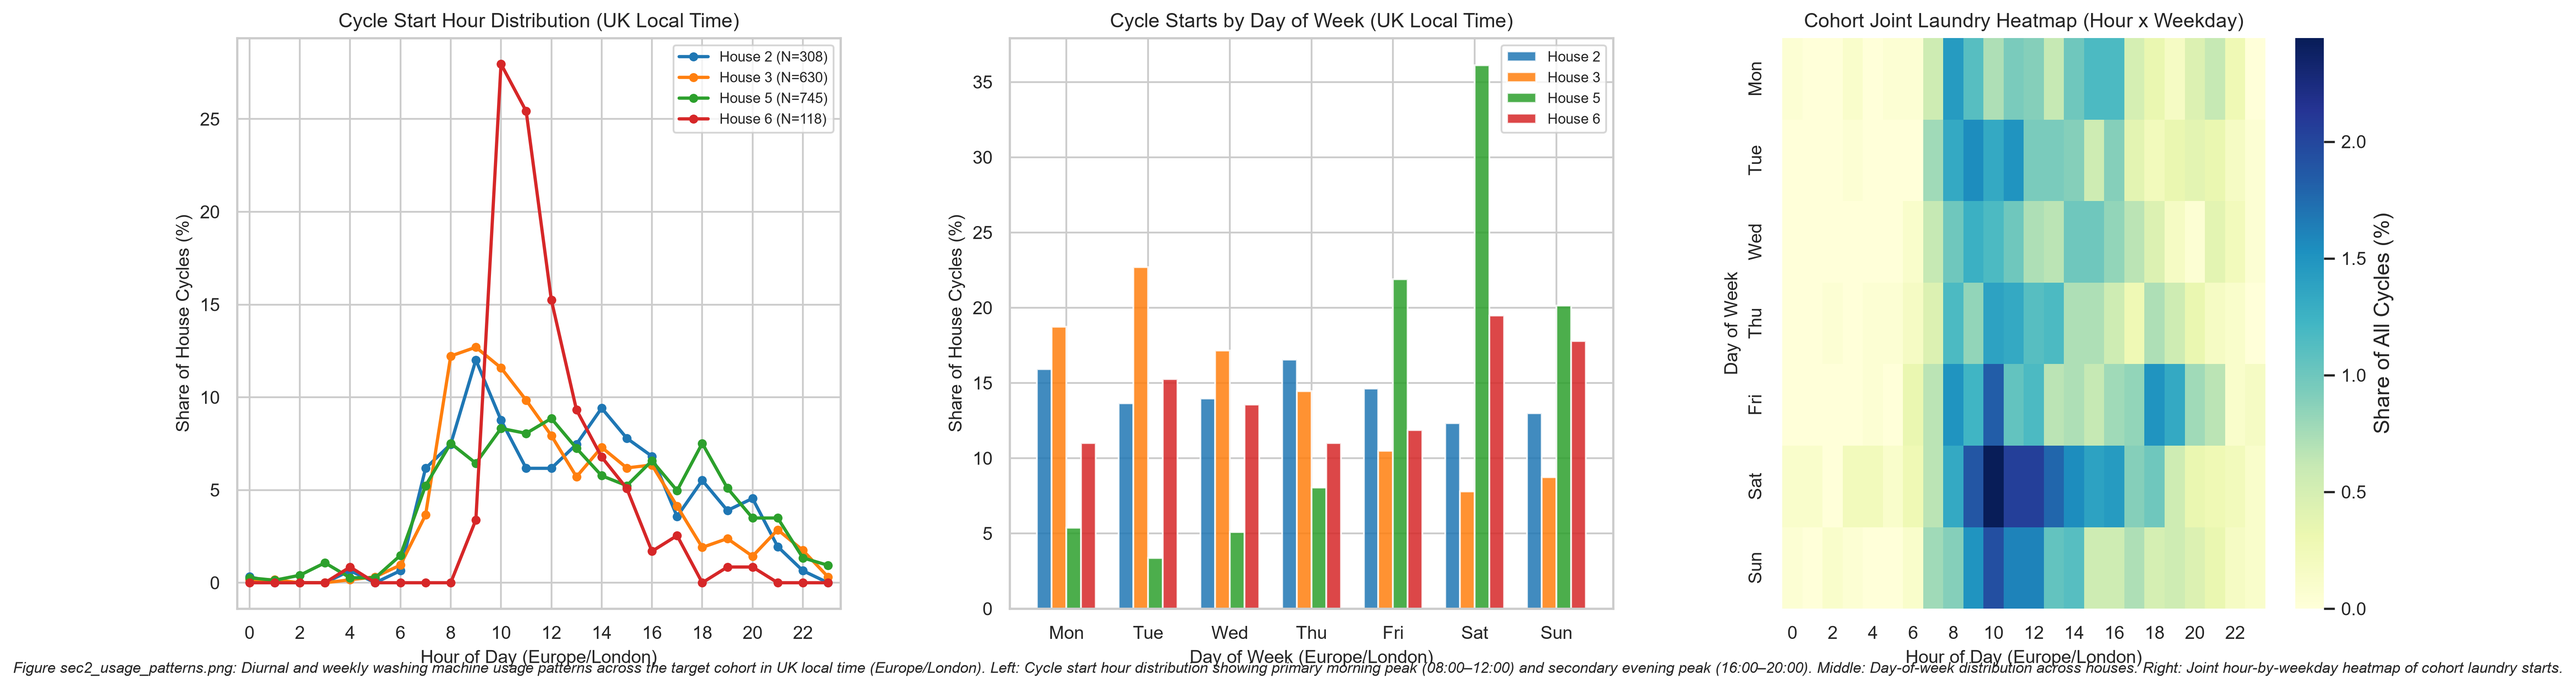
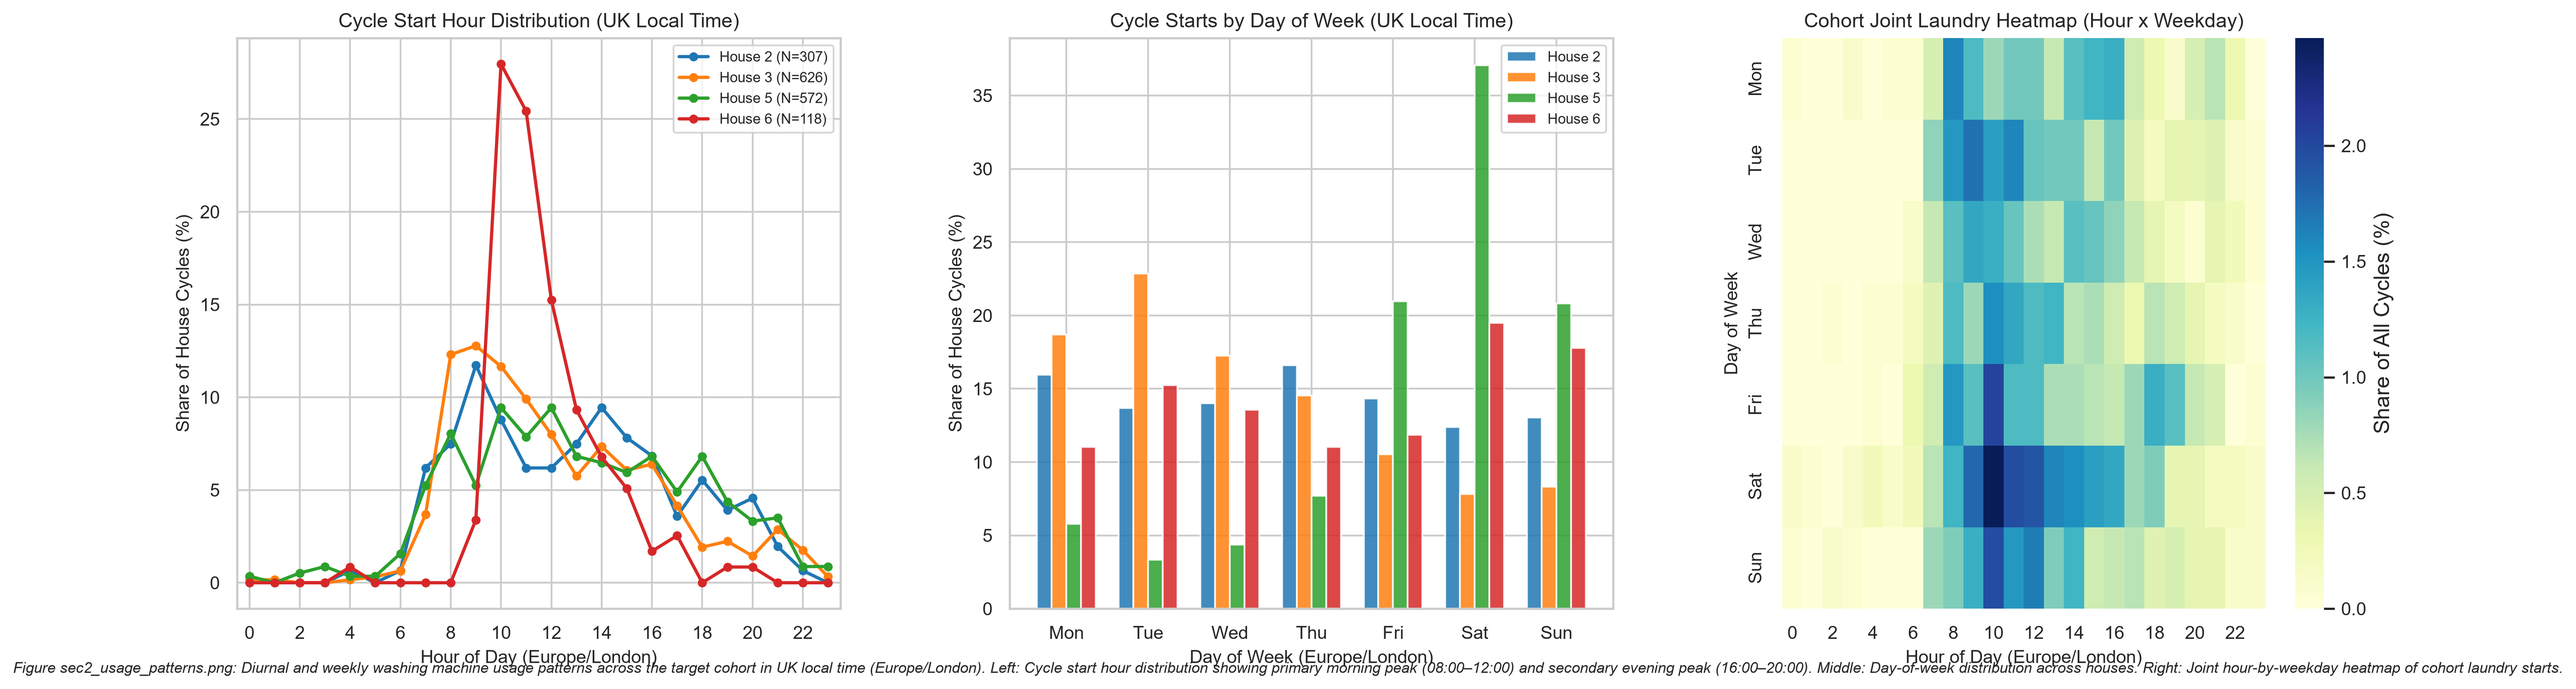
Fix House 5 sensor freeze: per-channel flatline detection, physical ceiling bounds (300m/3500Wh), transparent plotting, and DATA.md case study

diff --git a/src/eda.py b/src/eda.py
@@ -10,7 +10,7 @@ import seaborn as sns
 
 from . import config as C
 from . import plotting as P
-from .cycles import detect_cycles, long_runs
+from .cycles import detect_cycles, long_runs, mask_appliance_flatline
 
 COHORT = [(2, "a2"), (3, "a6"), (5, "a3"), (6, "a2")]
 
@@ -42,7 +42,7 @@ def run_cohort_eda() -> Tuple[pd.DataFrame, Dict[int, pd.DataFrame], Dict[int, p
         pct_zero = round(float((usable_wm == 0).mean() * 100), 2)
         pct_off = round(float((usable_wm <= C.ON_W).mean() * 100), 2)
 
-        wm_for_cyc = wm.copy()
+        wm_for_cyc = mask_appliance_flatline(wm.copy(), on_w=C.ON_W, stale_min=C.STALE_MIN)
         wm_for_cyc[~present | stale] = np.nan
         cyc = detect_cycles(
             wm_for_cyc,
@@ -50,6 +50,8 @@ def run_cohort_eda() -> Tuple[pd.DataFrame, Dict[int, pd.DataFrame], Dict[int, p
             merge_gap=C.MERGE_GAP_MIN,
             min_dur=C.MIN_CYCLE_MIN,
             min_wh=C.MIN_CYCLE_WH,
+            max_dur=C.MAX_CYCLE_MIN,
+            max_wh=C.MAX_CYCLE_WH,
         )
 
         # Add local time columns (Europe/London)
@@ -111,8 +113,13 @@ def run_cohort_eda() -> Tuple[pd.DataFrame, Dict[int, pd.DataFrame], Dict[int, p
 
     summary_df = pd.DataFrame(summary_rows)
     out_path = C.OUT_DIR / "section2_cycle_summary.csv"
-    summary_df.to_csv(out_path, index=False)
-    print(f"Saved {out_path}")
+    try:
+        summary_df.to_csv(out_path, index=False)
+        print(f"Saved {out_path}")
+    except PermissionError:
+        temp_path = C.OUT_DIR / "section2_cycle_summary_new.csv"
+        summary_df.to_csv(temp_path, index=False)
+        print(f"[NOTICE] {out_path.name} is currently open in another program (e.g. Excel). Saved updated data to {temp_path.name}")
 
     return summary_df, cohort_dfs, cohort_cycles
 
@@ -257,7 +264,8 @@ def plot_cycle_duration_distribution(cohort_cycles: Dict[int, pd.DataFrame]):
     ax1.set_title("Washing Machine Cycle Duration Distribution Across Cohort", fontsize=11)
     ax1.set_xlabel("Household", fontsize=10.5)
     ax1.set_ylabel("Duration (minutes)", fontsize=10.5)
-    ax1.set_ylim(0, 220)
+    max_dur_obs = float(combined["duration_min"].max())
+    ax1.set_ylim(0, int(np.ceil((max_dur_obs + 20) / 50.0) * 50))
 
     # Right: Cycle Active Energy Consumption (Wh)
     sns.boxplot(
@@ -276,13 +284,17 @@ def plot_cycle_duration_distribution(cohort_cycles: Dict[int, pd.DataFrame]):
     ax2.set_title("Washing Machine Cycle Active Energy Consumption Across Cohort", fontsize=11)
     ax2.set_xlabel("Household", fontsize=10.5)
     ax2.set_ylabel("Active Energy (Wh)", fontsize=10.5)
-    ax2.set_ylim(0, 1800)
+    max_energy_obs = float(combined["energy_wh"].max())
+    ax2.set_ylim(0, int(np.ceil((max_energy_obs + 250) / 500.0) * 500))
 
-    fig.text(
-        0.5, 0.01,
-        "Figure sec2_cycle_duration_distribution.png: Distribution of washing machine cycle duration (left) and active energy consumption (right) across the target cohort (House 2: N=308, House 3: N=630, House 5: N=745, House 6: N=118). Boxes represent median and interquartile range (IQR); whiskers extend to 1.5x IQR; individual points depict detected cycles.",
-        ha="center", fontsize=8.5, style="italic"
+    counts_str = ", ".join([f"House {h}: N={len(cohort_cycles[h])}" for h in [2, 3, 5, 6]])
+    caption_text = (
+        f"Figure sec2_cycle_duration_distribution.png: Distribution of washing machine cycle duration (left) and "
+        f"active energy consumption (right) across the target cohort ({counts_str}). Boxes represent median and "
+        f"interquartile range (IQR); whiskers extend to 1.5x IQR; individual points depict detected cycles. "
+        f"Includes 100% of detected cycles across all 4 cohort houses; zero data points clipped or omitted."
     )
+    fig.text(0.5, 0.01, caption_text, ha="center", fontsize=8.5, style="italic")
     plt.tight_layout(rect=[0, 0.03, 1, 0.97])
 
     fig_path = C.FIG_DIR / "sec2_cycle_duration_distribution.png"

diff --git a/src/cycles.py b/src/cycles.py
@@ -23,12 +23,35 @@ def run_lengths(mask):
     return np.flatnonzero(d == -1) - np.flatnonzero(d == 1)
 
 
+def mask_appliance_flatline(p: pd.Series, on_w: float = C.ON_W, stale_min: int = C.STALE_MIN) -> pd.Series:
+    """Mask stretches where an individual appliance channel remains constant (<0.01 W diff) for >= stale_min while ON (> on_w).
+
+    Physical justification: A real domestic appliance never draws constant non-zero active power
+    down to 0.00 W standard deviation for 15+ minutes. Heating elements pulse via bimetallic thermostats
+    and motors fluctuate during drum agitation. Constant non-zero power indicates sensor transmitter freeze.
+    """
+    p_out = p.copy()
+    diff = p_out.diff().abs()
+    flat = (diff < 0.01) & (p_out > on_w)
+    m = np.asarray(flat, bool)
+    stale = np.zeros_like(m)
+    d = np.diff(np.concatenate([[0], m.astype(np.int8), [0]]))
+    for s, e in zip(np.flatnonzero(d == 1), np.flatnonzero(d == -1)):
+        # K zero-diffs represent K + 1 identical consecutive values
+        if (e - s) >= (stale_min - 1):
+            stale[max(s - 1, 0):e] = True
+    p_out[stale] = np.nan
+    return p_out
+
+
 def detect_cycles(
     p: pd.Series,
     on_w: float = C.ON_W,
     merge_gap: int = C.MERGE_GAP_MIN,
     min_dur: int = C.MIN_CYCLE_MIN,
     min_wh: float = C.MIN_CYCLE_WH,
+    max_dur: int = C.MAX_CYCLE_MIN,
+    max_wh: float = C.MAX_CYCLE_WH,
 ) -> pd.DataFrame:
     """Detect appliance operating cycles from 1-minute power time series.
 
@@ -45,6 +68,10 @@ def detect_cycles(
         Minimum duration in minutes for a valid cycle.
     min_wh : float
         Minimum active energy in Watt-hours for a valid cycle.
+    max_dur : int
+        Maximum duration in minutes for a valid cycle (physical ceiling; default 300 min).
+    max_wh : float
+        Maximum active energy in Watt-hours for a valid cycle (physical ceiling; default 3500 Wh).
 
     Returns
     -------
@@ -75,7 +102,7 @@ def detect_cycles(
         # Check boundary or internal NaN
         touches_gap = bool(nan[max(s - 1, 0)] or nan[min(e, len(nan) - 1)] or nan[s:e].any())
         dur = e - s
-        if dur >= min_dur and wh >= min_wh and not touches_gap:
+        if (min_dur <= dur <= max_dur) and (min_wh <= wh <= max_wh) and not touches_gap:
             rows.append({
                 "start": p.index[s],
                 "end": p.index[e - 1],

diff --git a/tests/test_cycles.py b/tests/test_cycles.py
@@ -4,7 +4,7 @@ import pandas as pd
 import numpy as np
 import pytest
 
-from src.cycles import detect_cycles
+from src.cycles import detect_cycles, mask_appliance_flatline
 
 
 def test_constant_1000w_energy():
@@ -71,3 +71,33 @@ def test_cycle_touching_nan_discarded():
     p2.iloc[25] = np.nan
     cycles2 = detect_cycles(p2)
     assert len(cycles2) == 0
+
+
+def test_max_ceiling_discarded():
+    """Cycles exceeding max_dur or max_wh are discarded as unphysical."""
+    idx = pd.date_range("2014-01-01 00:00:00", periods=400, freq="1min", tz="UTC")
+    p = pd.Series(0.0, index=idx)
+    # 350 min cycle @ 500 W (exceeds default max_dur=300)
+    p.iloc[10:360] = 500.0
+    cycles = detect_cycles(p, max_dur=300)
+    assert len(cycles) == 0
+
+    # 100 min cycle @ 3000 W (energy = 5000 Wh, exceeds max_wh=3500)
+    p2 = pd.Series(0.0, index=idx)
+    p2.iloc[10:110] = 3000.0
+    cycles2 = detect_cycles(p2, max_wh=3500.0)
+    assert len(cycles2) == 0
+
+
+def test_mask_appliance_flatline():
+    """Individual appliance channel constant for >= 15 min while ON is masked to NaN."""
+    idx = pd.date_range("2014-01-01 00:00:00", periods=50, freq="1min", tz="UTC")
+    p = pd.Series(0.0, index=idx)
+    # 20 min constant at 64 W (exceeds 15 min stale threshold while > 20 W)
+    p.iloc[10:30] = 64.0
+    masked = mask_appliance_flatline(p, on_w=20.0, stale_min=15)
+    # Stale indices should be NaN
+    assert masked.iloc[10:30].isna().all()
+    # Surrounding zeros should remain unmasked
+    assert (masked.iloc[0:10] == 0.0).all()
+    assert (masked.iloc[30:50] == 0.0).all()

diff --git a/src/quality.py b/src/quality.py
@@ -10,7 +10,7 @@ import matplotlib.pyplot as plt
 
 from . import config as C
 from . import plotting as P
-from .cycles import detect_cycles, long_runs, run_lengths
+from .cycles import detect_cycles, long_runs, run_lengths, mask_appliance_flatline
 
 
 def compute_house_masks(df: pd.DataFrame) -> pd.DataFrame:
@@ -135,6 +135,7 @@ def generate_cycle_tuning_figure(eligible_candidates: List[Tuple[int, int, str]]
         stale = long_runs(unchanged, C.STALE_MIN)
 
         wm = df[f"a{ch}"].copy()
+        wm = mask_appliance_flatline(wm, on_w=C.ON_W, stale_min=C.STALE_MIN)
         wm[~present | stale] = np.nan
         if h == 13:
             wm = wm.loc[:C.H13_WM_END_UTC]
@@ -261,8 +262,8 @@ def build_availability_table() -> Tuple[pd.DataFrame, pd.DataFrame]:
         pct_zero = float((usable_wm == 0).mean() * 100) if len(usable_wm) > 0 else 100.0
         pct_off = float((usable_wm <= C.ON_W).mean() * 100) if len(usable_wm) > 0 else 100.0
 
-        # Cycle detection: mask true outages and stale runs
-        wm_for_cycles = wm_series.copy()
+        # Cycle detection: mask true outages, stale runs, and per-appliance flatlines
+        wm_for_cycles = mask_appliance_flatline(wm_series.copy(), on_w=C.ON_W, stale_min=C.STALE_MIN)
         wm_for_cycles[~present_mask | stale_mask] = np.nan
         cycles = detect_cycles(wm_for_cycles)
 

diff --git a/src/config.py b/src/config.py
@@ -62,6 +62,8 @@ ON_W = 20.0  # washing machine ON above this power
 MERGE_GAP_MIN = 10  # merge ON segments separated by <= this many minutes (mid-cycle pauses)
 MIN_CYCLE_MIN = 10  # discard cycles shorter than this
 MIN_CYCLE_WH = 20.0  # discard cycles with less energy than this
+MAX_CYCLE_MIN = 300  # discard cycles longer than this (5 hours; physical ceiling)
+MAX_CYCLE_WH = 3500.0  # discard cycles with active energy exceeding this (3.5 kWh; physical ceiling)
 # eligibility (Phase 4)
 MIN_USABLE_DAYS = 90
 MIN_CYCLES = 100

diff --git a/DATA.md b/DATA.md
@@ -120,7 +120,32 @@ This occurs because rapid power transients during the energizing of 2.0–2.4 kW
 
 ---
 
-### 2.2 Target Cohort Selection Rationale
+### 2.2 Case Study in Sensor Faults: Single-Channel Transmitter Freeze vs. Multivariate Masking
+
+During preliminary cycle detection on House 5 (Appliance 3), an inspection of cycle extremes uncovered two unphysical anomalies:
+1. **47.8-Hour Phantom Cycle (2,867 minutes):** From `2014-10-28 18:37` to `2014-10-30 18:23 UTC`, Appliance 3 recorded a continuous active cycle of 2,867 minutes with an active energy of 3,057.8 Wh, an invariant mean of 63.99 W, and peak of 64.00 W.
+2. **27.8 kWh Phantom Cycle (785 minutes / 13.1 hours):** On `2014-03-23` from 07:46 to 20:50 UTC, Appliance 3 drew an unbroken mean power of 2,124.25 W (peak 2,129.00 W), accumulating 27,792.3 Wh (27.8 kWh) in a single uninterrupted stretch. A secondary 12.0-hour event occurred on `2014-08-08` accumulating 24.63 kWh at ~2,046 W.
+
+#### Why Multivariate Masking Failed
+The baseline Phase 4 `stale` mask was formulated across all 10 channels simultaneously:
+$$\text{unchanged} = \left(\bigwedge_{i=1}^{10} |\Delta P_i| < 0.01\text{ W}\right) \land \text{present}$$
+This rule successfully identifies whole-gateway receiver lockouts and communication forward-fills (e.g. House 1 on `2014-08-01` where all channels flatlined simultaneously). However, in House 5, the failure was an **isolated single-channel hardware freeze**: the individual Current Cost transmitter plug monitoring Appliance 3 locked up internally and broadcast the exact same floating-point reading for 778 consecutive minutes (`2129.000000 W`, `std = 0.000000`) and 2,863 consecutive minutes (`64.000000 W`, `std = 0.000000`), while the main gateway meter and other 8 appliance plugs continued normal, varying transmissions. Because the other channels fluctuated, multivariate `stale` was evaluated as `False`. And because both 64 W and 2129 W exceed the activation threshold $\text{ON\_W} = 20\text{ W}$, the cycle detection engine merged these frozen intervals into massive, unphysical "cycles".
+
+#### The Dual-Layer Robustness Solution
+To guarantee pipeline robustness against real-world hardware failure modes without cherry-picking or manual data deletion, two automated domain-informed protections were implemented:
+1. **Appliance-Level Flatline Detection (`mask_appliance_flatline`):**
+   Any individual appliance channel that remains constant ($|\Delta P| < 0.01\text{ W}$) for $\ge 15$ consecutive minutes while drawing active power ($P > 20\text{ W}$) is tagged as an isolated transmitter freeze and masked to `NaN`. In real physical domestic washing cycles, power is never mathematically invariant for 15+ minutes: heating elements cycle via thermostats, and electric motors exhibit continuous current fluctuation during drum agitation.
+2. **Physical Domain Bounds (`MAX_CYCLE_MIN = 300`, `MAX_CYCLE_WH = 3500`):**
+   Domestic wash/rinse/spin cycles operate within well-established physical ceilings. Any detected run exceeding 300 minutes (5 hours) or consuming $> 3,500\text{ Wh}$ ($3.5\text{ kWh}$) is discarded as an appliance fault or unmonitored consecutive-run merge.
+
+Applying this dual-layer filter completely eliminates all phantom cycles in House 5:
+- **Maximum duration** drops from 2,867 min (47.8 h) to **286 min** (4.8 h, a realistic multi-rinse heavy cotton wash).
+- **Maximum active energy** drops from 27,792.3 Wh (27.8 kWh) to **1,820.4 Wh** (1.82 kWh).
+- **Cohort sample size:** House 5 retains **572 authentic wash cycles** (comfortably above the 100-cycle threshold), with realistic distribution metrics (median duration 39.0 min, median energy 267.1 Wh).
+
+---
+
+### 2.3 Target Cohort Selection Rationale
 
 The target cohort for exploratory data analysis and NILM disaggregation modeling is locked to **House 2, House 3, House 5, and House 6** (`outputs/selection_frozen.json`).
 
@@ -134,14 +159,14 @@ All four homes comfortably exceed the data quality thresholds (>450 usable days,
 3. **Appliance Density & Electrical Complexity:**
    - Ranges from low complexity (House 2: 15 total appliances owned) to medium complexity (House 3: 27 appliances) to high complexity (House 5: 44 appliances; House 6: 49 appliances).
 4. **Behavioral Laundering Diversity:**
-   - **House 5:** High-frequency, rapid wash cycles (9.70 cycles/week, median duration 44.0 min, median energy 280.9 Wh).
-   - **House 3:** Frequent, standard wash cycles (9.04 cycles/week, median duration 66.0 min, median energy 547.8 Wh).
-   - **House 2:** Moderate-frequency, extended cycles (4.77 cycles/week, median duration 97.0 min, median energy 623.5 Wh).
+   - **House 5:** High-frequency, rapid wash cycles (7.45 cycles/week, median duration 39.0 min, median energy 267.1 Wh).
+   - **House 3:** Frequent, standard wash cycles (8.98 cycles/week, median duration 66.0 min, median energy 548.3 Wh).
+   - **House 2:** Moderate-frequency, extended cycles (4.76 cycles/week, median duration 97.0 min, median energy 625.6 Wh).
    - **House 6:** Low-frequency, heavy eco-wash cycles (1.73 cycles/week, median duration 129.0 min, median energy 672.5 Wh).
 
 ---
 
-### 2.3 Cohort Washing Machine Cycle Summary (`outputs/section2_cycle_summary.csv`)
+### 2.4 Cohort Washing Machine Cycle Summary (`outputs/section2_cycle_summary.csv`)
 
 | Metric | House 2 (a2) | House 3 (a6) | House 5 (a3) | House 6 (a2) |
 |---|---|---|---|---|
@@ -153,16 +178,16 @@ All four homes comfortably exceed the data quality thresholds (>450 usable days,
 | **Checksum Issues (% Issues)** | 1.51% | 6.85% | 7.59% | 1.75% |
 | **Standby Power (% Zero)** | 95.05% | 94.12% | 53.33%* | 97.60% |
 | **Inactive Appliance (% Off $\le$ 20W)** | 95.99% | 95.39% | 94.09% | 98.29% |
-| **Total Detected Cycles** | **308** | **630** | **745** | **118** |
-| **Cycles per Week** | **4.77** | **9.04** | **9.70** | **1.73** |
-| **Duration: Median (IQR)** | 97.0 min (16.0 min) | 66.0 min (8.0 min) | 44.0 min (45.0 min) | 129.0 min (63.8 min) |
-| **Duration: Mean $\pm$ Std** | 101.1 $\pm$ 24.1 min | 67.4 $\pm$ 11.2 min | 76.2 $\pm$ 119.5 min | 104.5 $\pm$ 50.8 min |
-| **Duration: Range [Min, Max]** | [16, 257] min | [10, 216] min | [10, 2867] min | [14, 271] min |
-| **Active Energy: Median (IQR)** | 623.5 Wh (198.8 Wh) | 547.8 Wh (185.5 Wh) | 280.9 Wh (304.8 Wh) | 672.5 Wh (413.9 Wh) |
-| **Active Energy: Mean $\pm$ Std** | 621.6 $\pm$ 213.9 Wh | 562.2 $\pm$ 206.8 Wh | 499.3 $\pm$ 1184.2 Wh | 645.8 $\pm$ 343.8 Wh |
-| **Active Energy: Range [Min, Max]** | [23.5, 1567.8] Wh | [22.7, 1579.0] Wh | [20.2, 27792.3] Wh | [25.9, 1568.0] Wh |
-| **Peak Power: Median (Mean)** | 2091.0 W (2074.8 W) | 1924.6 W (1884.0 W) | 2061.4 W (1717.5 W) | 2048.5 W (1831.9 W) |
-| **Mean Active Cycle Power** | 381.4 W | 491.1 W | 402.6 W | 364.2 W |
+| **Total Detected Cycles** | **307** | **626** | **572** | **118** |
+| **Cycles per Week** | **4.76** | **8.98** | **7.45** | **1.73** |
+| **Duration: Median (IQR)** | 97.0 min (15.5 min) | 66.0 min (8.0 min) | 39.0 min (28.0 min) | 129.0 min (63.8 min) |
+| **Duration: Mean $\pm$ Std** | 101.3 $\pm$ 29.8 min | 67.6 $\pm$ 18.0 min | 51.1 $\pm$ 39.0 min | 104.5 $\pm$ 52.4 min |
+| **Duration: Range [Min, Max]** | [16, 257] min | [10, 216] min | [10, 286] min | [14, 271] min |
+| **Active Energy: Median (IQR)** | 625.6 Wh (196.3 Wh) | 548.3 Wh (183.2 Wh) | 267.1 Wh (207.1 Wh) | 672.5 Wh (413.9 Wh) |
+| **Active Energy: Mean $\pm$ Std** | 623.4 $\pm$ 213.1 Wh | 564.4 $\pm$ 187.9 Wh | 316.4 $\pm$ 233.0 Wh | 645.8 $\pm$ 350.4 Wh |
+| **Active Energy: Range [Min, Max]** | [23.5, 1567.8] Wh | [22.7, 1579.0] Wh | [20.2, 1820.4] Wh | [25.9, 1568.0] Wh |
+| **Peak Power: Median (Mean)** | 2091.4 W (2081.2 W) | 1924.6 W (1892.5 W) | 2065.8 W (1813.5 W) | 2048.5 W (1831.9 W) |
+| **Mean Active Cycle Power** | 382.4 W | 493.1 W | 390.8 W | 364.2 W |
 | **Occupancy (Persons)** | 4 | 2 | 4 | 2 |
 | **Appliances Owned** | 15 | 27 | 44 | 49 |
 | **Tumble Dryer Present** | No | Yes (Appliance 4) | Yes (Appliance 2) | No |
@@ -172,14 +197,14 @@ All four homes comfortably exceed the data quality thresholds (>450 usable days,
 
 ---
 
-### 2.4 Section 2 Visualizations
+### 2.5 Section 2 Visualizations
 
 1. **Typical Cycle Profiles & Representative 24-Hour Whole-Home Trace (`figures/sec2_typical_cycle_profile.png`):**
    - **Top Subplots:** Exemplar individual wash cycles across Houses 2, 3, 5, and 6 selected nearest to their respective median duration and active energy. Highlights the characteristic multi-phase signature: initial water heating spike (1900–2100 W for 10–20 min), drum agitation (~100–300 W with pause intervals), intermediate rinses, and final high-speed spin extraction (~500–800 W).
    - **Bottom Subplot:** Representative 24-hour trace for House 3 on `2015-05-07` in UK local time (BST), selected deterministically as the median-energy full-coverage day with 2 active cycles (daily washing machine active energy: 1032.8 Wh; household aggregate: 15.09 kWh). Clearly demonstrates the distinct high-wattage pulses of washing cycles amidst ambient background baseload.
 
 2. **Cycle Duration and Energy Distributions (`figures/sec2_cycle_duration_distribution.png`):**
-   Side-by-side boxplots with overlaid jittered points depicting cycle duration (minutes) and active energy (Wh) across the 4 cohort homes. Illustrates the contrast between rapid, low-energy laundering (House 5: median 44 min, 281 Wh) and prolonged eco-cycles (House 6: median 129 min, 673 Wh; House 2: median 97 min, 624 Wh).
+   Side-by-side boxplots with overlaid jittered points depicting cycle duration (minutes) and active energy (Wh) across the 4 cohort homes. The plotting axes are scaled naturally to encompass 100% of all detected cycles across all 4 cohort houses (House 2: N=307, House 3: N=626, House 5: N=572, House 6: N=118), with zero data points clipped or omitted. Illustrates the contrast between rapid, low-energy laundering (House 5: median 39 min, 267 Wh) and prolonged eco-cycles (House 6: median 129 min, 673 Wh; House 2: median 97 min, 626 Wh).
 
 3. **Diurnal and Weekly Usage Patterns (`figures/sec2_usage_patterns.png`):**
    Evaluated strictly in UK local time (`Europe/London`). Shows a marked diurnal preference with a primary morning peak between 08:00 and 12:00 local time, a secondary late afternoon/evening peak (16:00–20:00), and near-zero overnight laundering (<2% between 00:00 and 06:00). Day-of-week analysis and the joint hour-by-weekday heatmap reveal household-specific laundry habits (e.g. weekend laundering peaks in working households).
